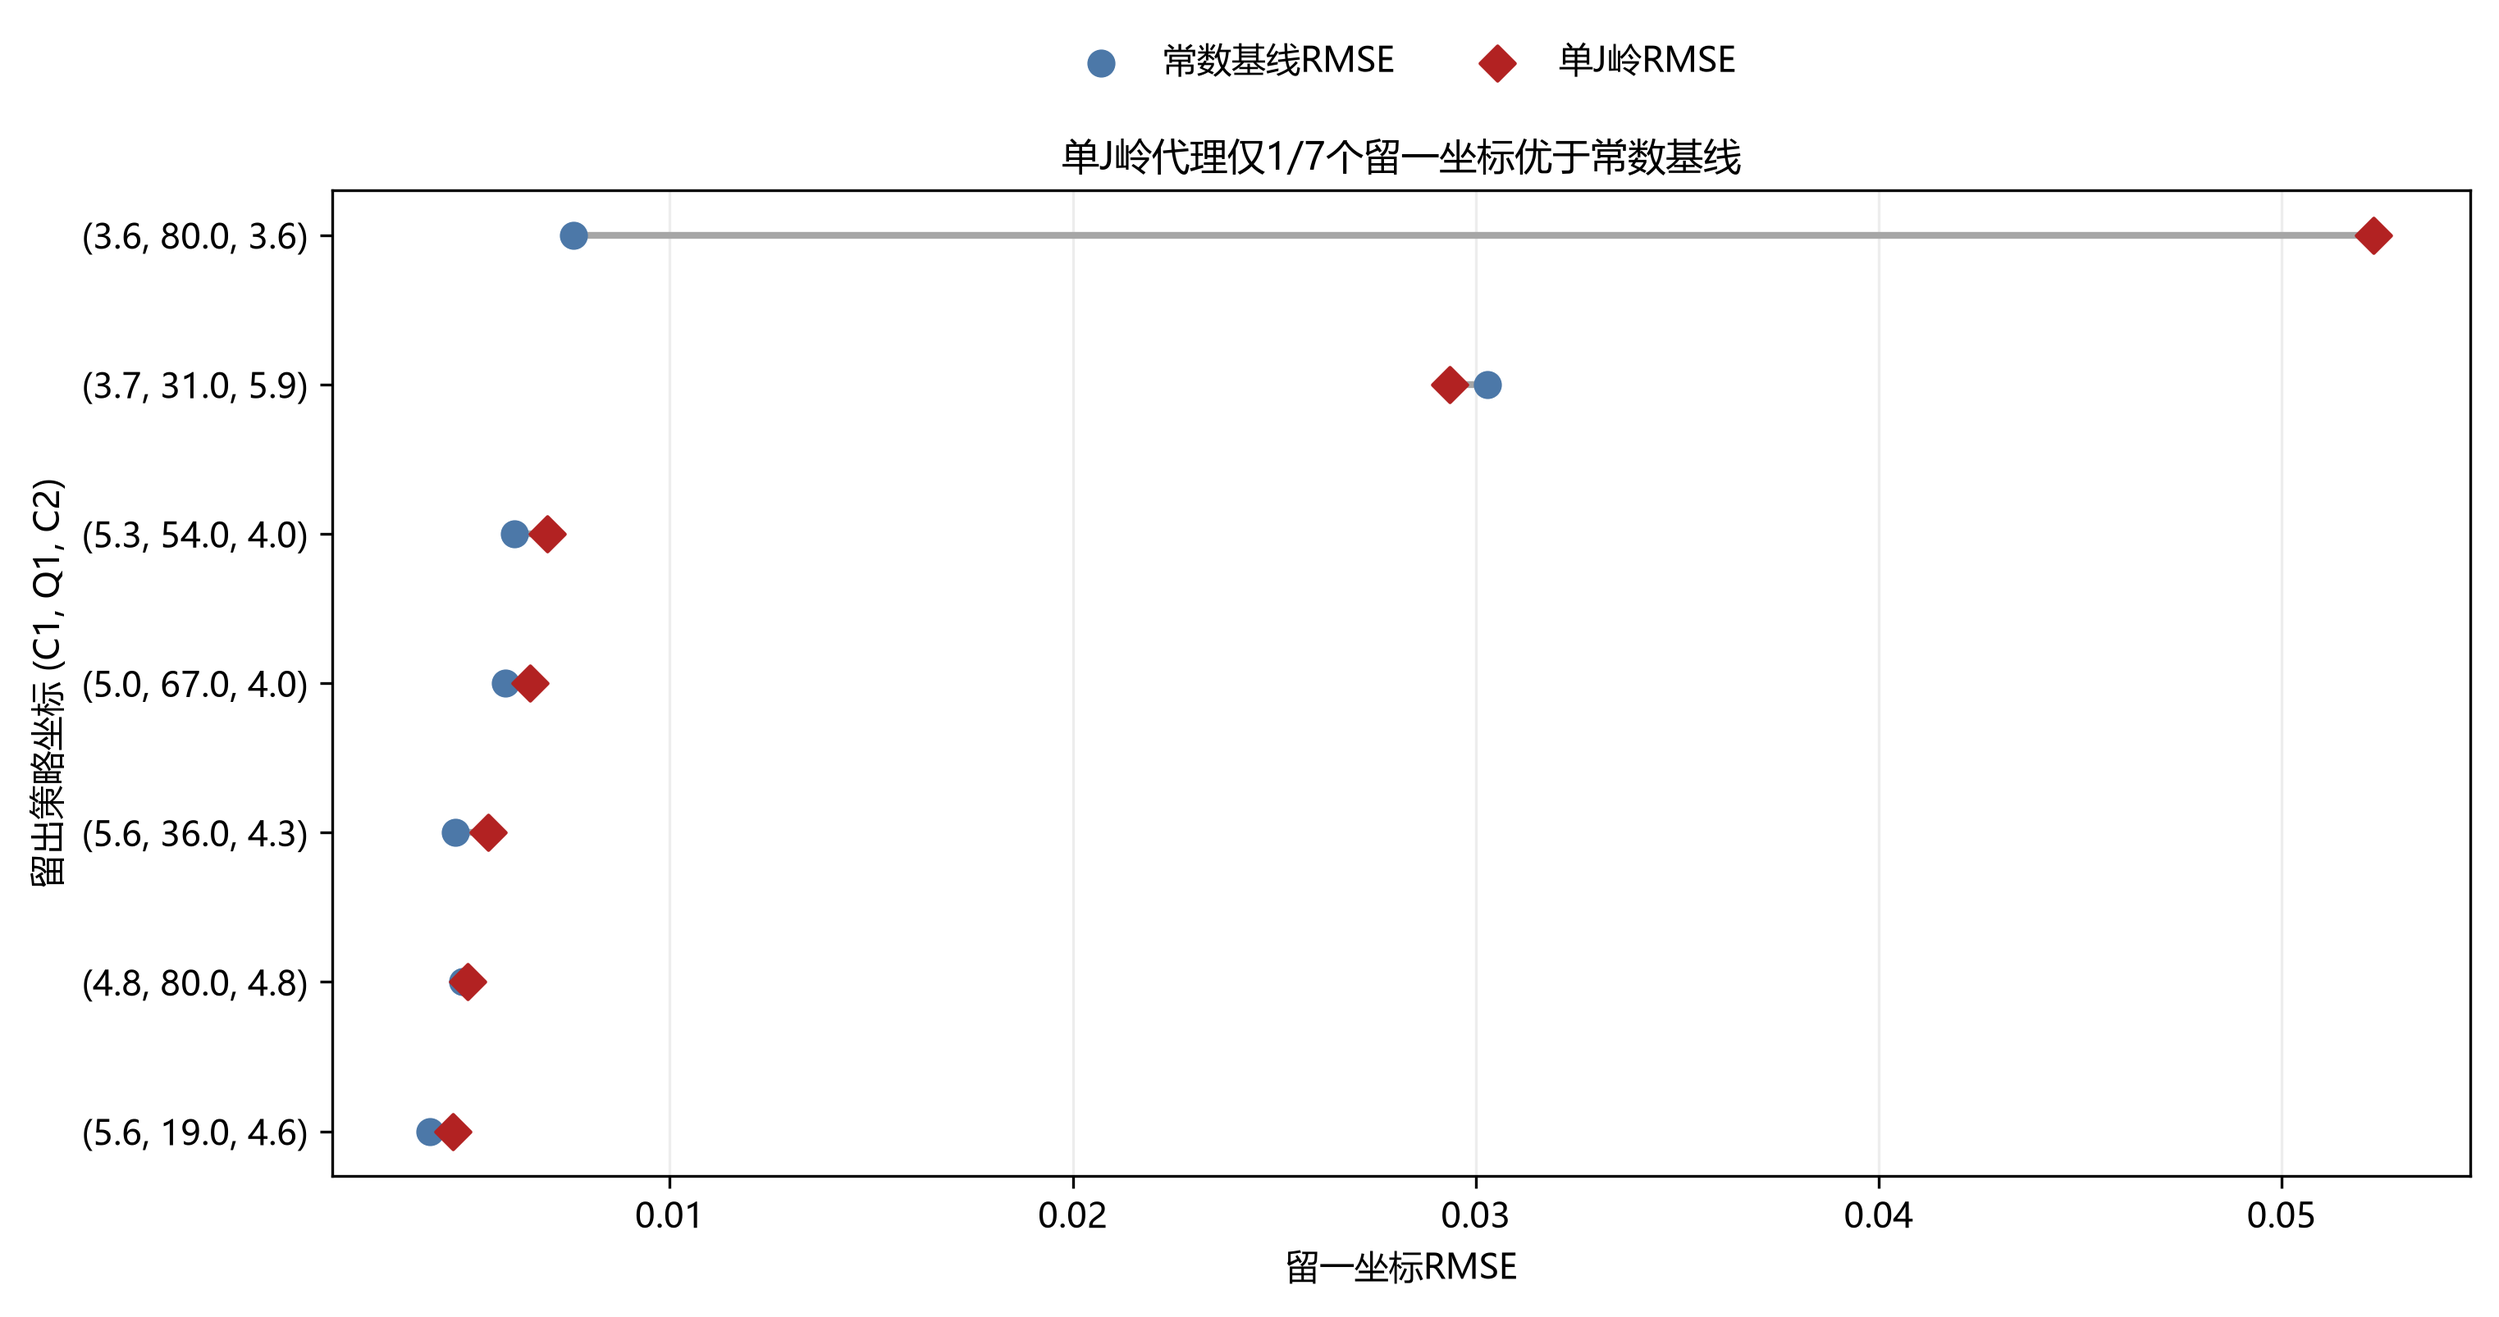
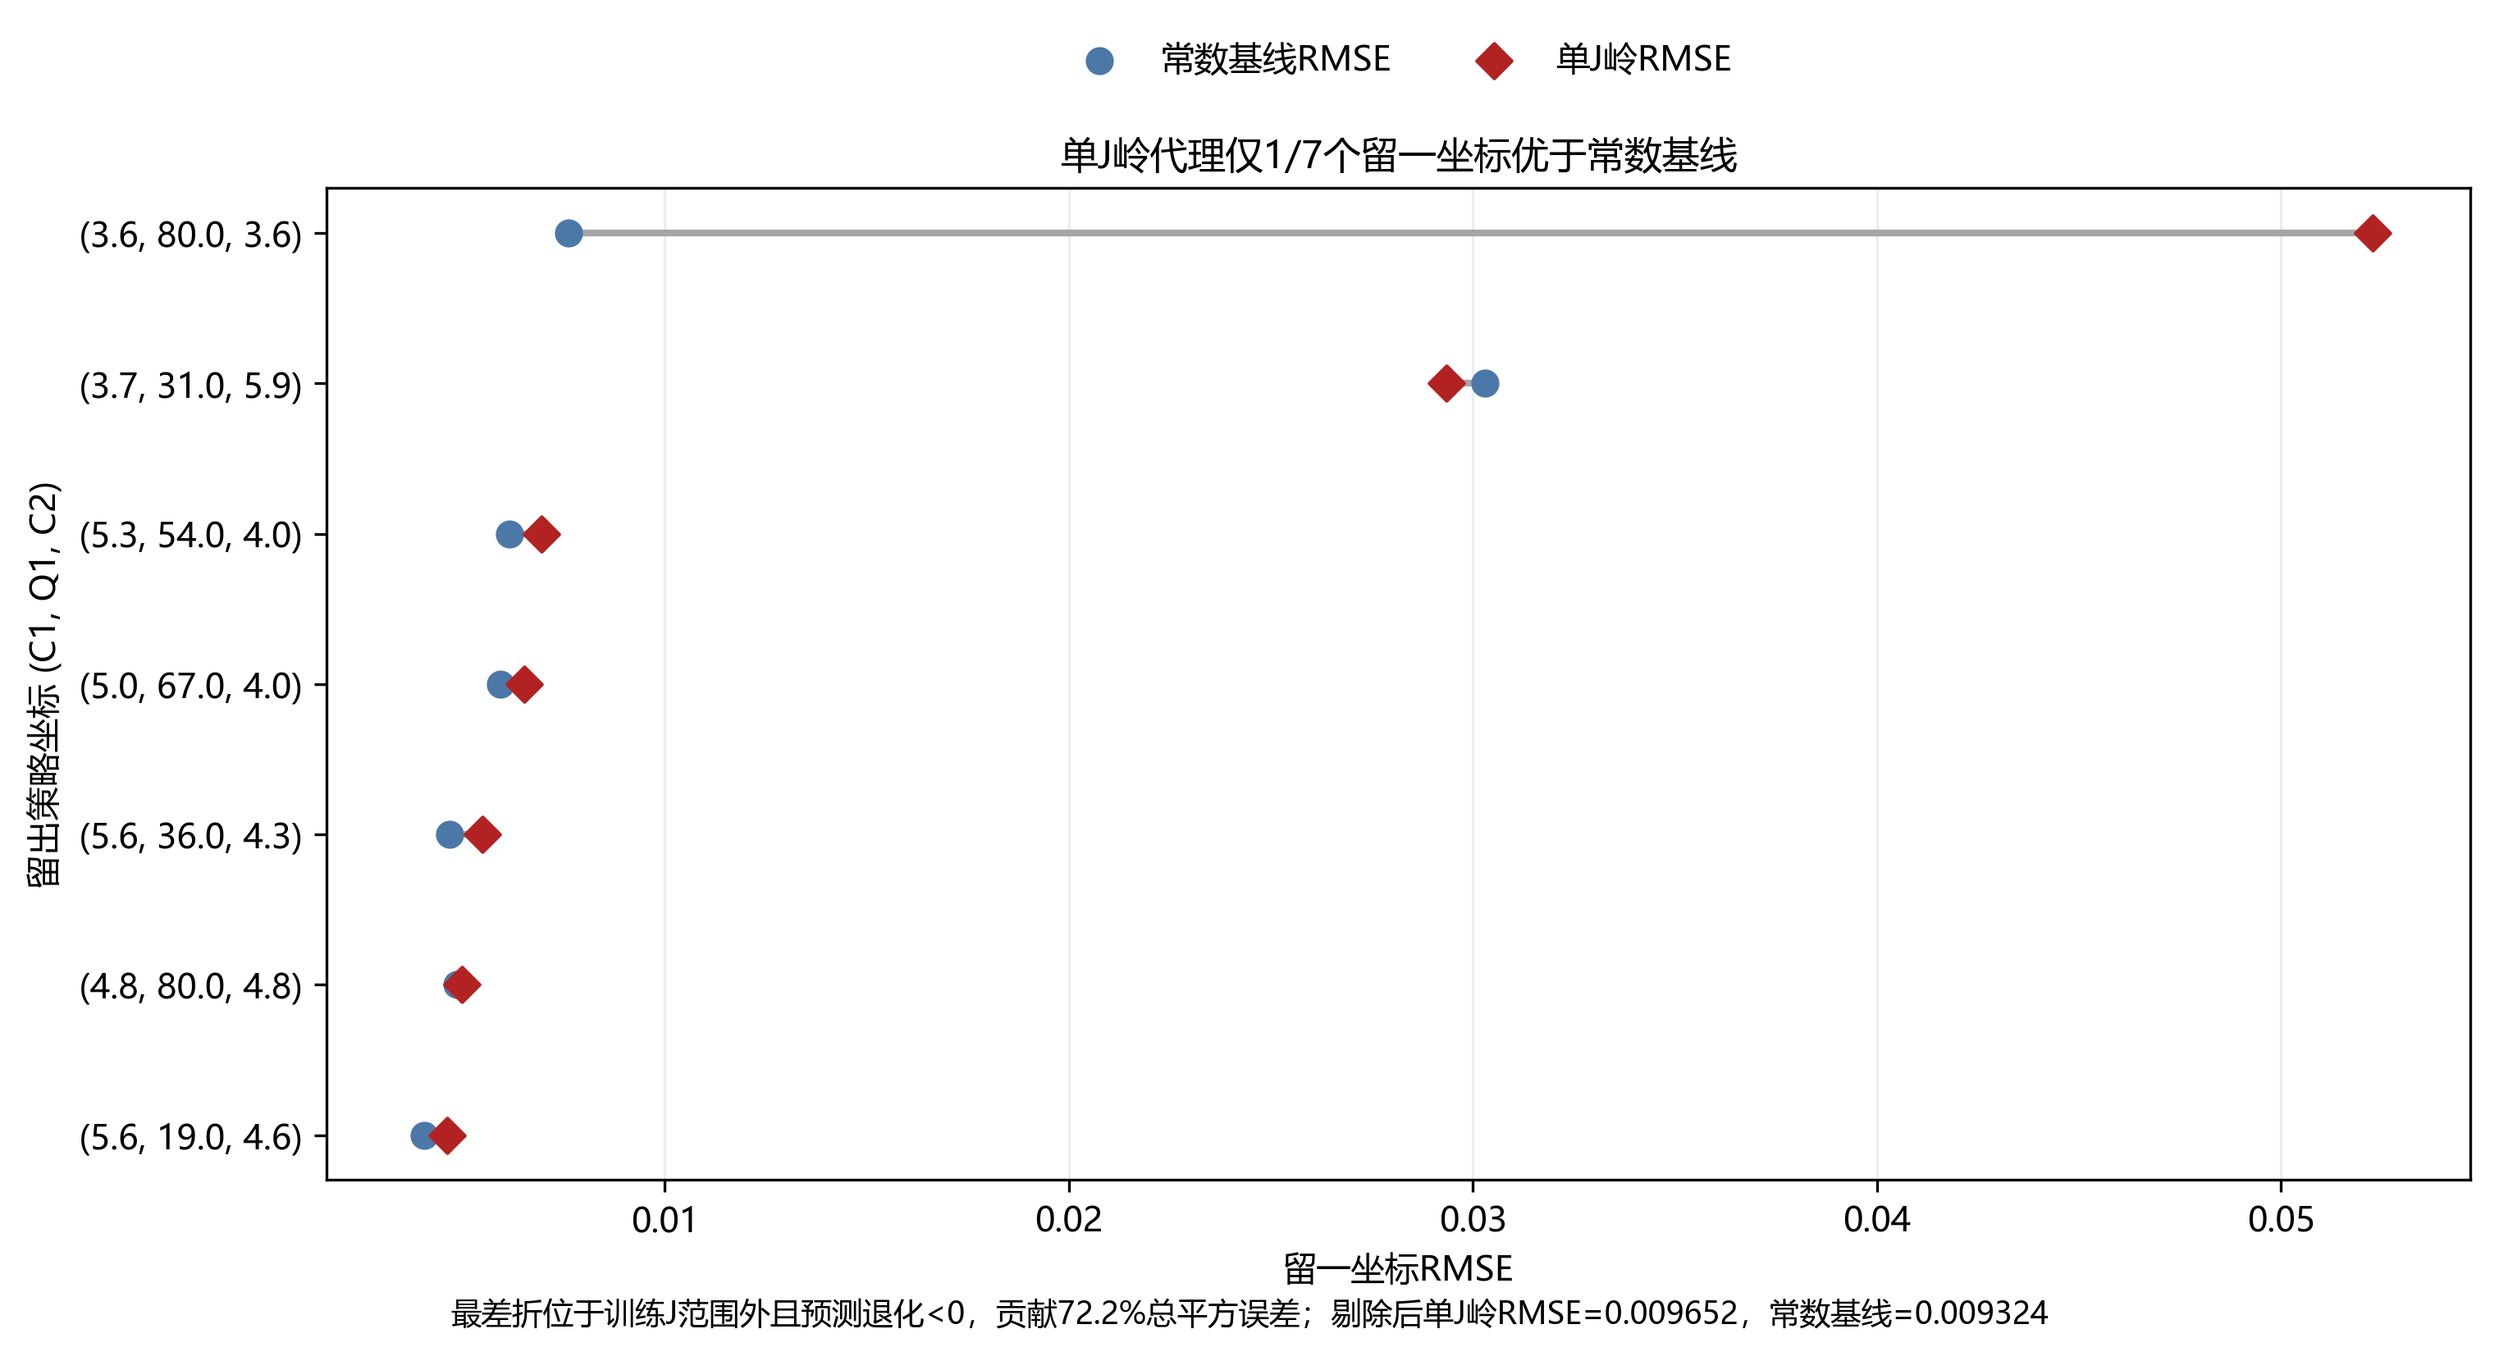
fix: expose Q4 M1 fold concentration

diff --git a/scripts/q4/run_q4_full_validation.py b/scripts/q4/run_q4_full_validation.py
@@ -314,6 +314,7 @@ def integrity_checks(summary: pd.DataFrame, battery: pd.DataFrame, boot: pd.Data
         {"check": "late_slope_bootstrapped", "passed": bool(boot["late_slope_loss"].notna().all()), "detail": "strategy mean per replicate"},
         {"check": "point_recommendations_pareto", "passed": recommendation_policies.issubset(pareto_policies), "detail": len(recommendation_policies)},
         {"check": "m1_coordinate_folds", "passed": len(loso) == 7 and len(repeated_coordinate) == 1, "detail": "7 unique coordinates; duplicate coordinate jointly held out"},
+        {"check": "m1_failure_concentration_exposed", "passed": loso["worst_fold"].sum() == 1 and loso["squared_error_share"].sum() > 0.999999, "detail": "fold-level prediction, extrapolation and squared-error share recorded"},
         {"check": "fast_pair_point_pareto_roles", "passed": len(fast_pair) == 2 and fast_pair["point_pareto"].sum() == 1 and fast_pair.loc[fast_pair["point_pareto"], "decision_status"].eq("point_pareto_fast_tradeoff_recommendation").all() and fast_pair.loc[~fast_pair["point_pareto"], "decision_status"].eq("uncertainty_near_tie_nonpareto_sensitivity").all(), "detail": "point Pareto recommendation separated from non-Pareto uncertainty sensitivity"},
         {"check": "fast_pair_difference_intervals_cross_zero", "passed": bool((fast_pair["pair_time_difference_first_minus_second_p025"] < 0).all() and (fast_pair["pair_time_difference_first_minus_second_p975"] > 0).all() and (fast_pair["pair_loss_difference_first_minus_second_p025"] < 0).all() and (fast_pair["pair_loss_difference_first_minus_second_p975"] > 0).all()), "detail": "time and loss pairwise bootstrap intervals overlap zero"},
         {"check": "q3_not_used_as_counterfactual", "passed": fast_pair["q3_role"].eq("not_used_no_early_trajectory_for_new_policy").all(), "detail": "Q3 is conditional prediction, not a policy response surface"},
@@ -360,7 +361,7 @@ def main() -> None:
     elapsed = time.perf_counter() - started
     metrics = pd.DataFrame([
         {"model": "M0_discrete_pareto", "status": "pass_primary", "metric": "pareto_count", "value": float(summary["pareto"].sum()), "detail": "9 observed policies; no continuous causal extrapolation"},
-        {"model": "M1_single_J_ridge", "status": "failed_validation_continuous_search_not_activated", "metric": "oracle_coordinate_pressure_rmse", "value": float(loso["rmse"].mean()), "detail": f"rejects this single-J ridge only; mean improvement={loso['improvement'].mean():.9g}"},
+        {"model": "M1_single_J_ridge", "status": "failed_validation_continuous_search_not_activated", "metric": "oracle_coordinate_pressure_rmse", "value": float(loso["rmse"].mean()), "detail": f"rejects this single-J ridge only; mean improvement={loso['improvement'].mean():.9g}; worst-fold SSE share={loso['squared_error_share'].max():.6f}"},
         {"model": "B_shortest_time", "status": "near_tie_baseline", "metric": "minimum_observed_time", "value": float(summary["time_mean"].min()), "detail": f"policies within {TIME_EQUIVALENCE_MINUTES} min treated as practical near-tie set"},
         {"model": "C_lowest_loss", "status": "baseline", "metric": "minimum_observed_loss", "value": float(summary["loss_mean"].min()), "detail": "single-objective boundary"},
     ])
@@ -402,7 +403,7 @@ def main() -> None:
 
 版本`{FORMAL_VERSION}`，整块电池bootstrap {args.bootstrap}次，随机种子{SEED}，运行{elapsed:.3f}秒。
 
-M0离散观测策略Pareto为主模型；M1单J岭模型的oracle坐标压力测试失败，所以本数据下不启动连续搜索。该结果只否定当前单J岭代理，不证明所有连续代理或后续新增实验均无效。点估计Pareto策略为：{', '.join(summary.loc[summary['pareto'], 'policy'].astype(str))}。
+M0离散观测策略Pareto为主模型；M1单J岭模型的oracle坐标压力测试失败，所以本数据下不启动连续搜索。最差的3.6C留一折位于训练J范围外，产生负退化预测并贡献{loso['squared_error_share'].max():.1%}总平方误差；剔除该折后，M1平均RMSE仍为{loso.loc[~loso['worst_fold'], 'rmse'].mean():.6f}，略差于常数基线{loso.loc[~loso['worst_fold'], 'constant_rmse'].mean():.6f}。因此失败方向不依赖该折，但总体RMSE幅度明显受它驱动。该结果只否定当前单J岭代理，不证明所有连续代理或后续新增实验均无效。点估计Pareto策略为：{', '.join(summary.loc[summary['pareto'], 'policy'].astype(str))}。
 
 充电时间主指标统一采用`battery_summary_clean.csv`中的逐电池`mean_chargetime`，与问题1、2一致。前200循环的逐循环均值仅作覆盖窗口敏感性，不能替代主指标。点估计上5.3C的时间和退化都低于5.0C，因此前者是快速区域的Pareto推荐，后者是非前沿的不确定性近似并列敏感性项。二者时间差和退化差的整块电池bootstrap区间均跨0，5.3C退化更低的概率不足0.95，因此不把5.0C排除为近似并列方案，但也不将严格被支配点标成共同主推荐。
 

diff --git a/src/q4_models/core.py b/src/q4_models/core.py
@@ -180,13 +180,32 @@ def loso_single_exposure(
             else:
                 pred = intercept + slope * (test[exposure].to_numpy(float) - mean) / scale
             rmse = float(np.sqrt(np.mean((pred - test["loss_mean"].to_numpy(float)) ** 2))) if len(test) else np.nan
-            candidate = (rmse, -lam, intercept, slope, mean, scale)
+            candidate = (rmse, -lam, intercept, slope, mean, scale, pred)
             if best is None or candidate[:2] < best[:2]: best = candidate
         assert best is not None
         baseline_rmse = float(np.sqrt(np.mean((test["loss_mean"].to_numpy(float) - train["loss_mean"].mean()) ** 2))) if len(test) else np.nan
+        test_exposure = test[exposure].to_numpy(float)
+        train_exposure = train[exposure].to_numpy(float)
+        prediction = np.asarray(best[6], dtype=float)
         rows.append({"version": Q4_VERSION, "exposure": exposure, "held_out_coordinate": held_out,
                      "n_test_policy": len(test), "rmse": best[0], "lambda": -best[1],
                      "constant_rmse": baseline_rmse, "improvement": baseline_rmse - best[0],
                      "intercept": best[2], "slope": best[3], "train_mean": best[4],
-                     "train_scale": best[5], "validation_type": "coordinate_LOSO_extrapolation_pressure"})
-    return pd.DataFrame(rows)
+                     "train_scale": best[5],
+                     "train_exposure_min": float(train_exposure.min()),
+                     "train_exposure_max": float(train_exposure.max()),
+                     "test_exposure_min": float(test_exposure.min()),
+                     "test_exposure_max": float(test_exposure.max()),
+                     "outside_train_exposure_range": bool(
+                         test_exposure.min() < train_exposure.min()
+                         or test_exposure.max() > train_exposure.max()
+                     ),
+                     "prediction_mean": float(prediction.mean()),
+                     "prediction_below_zero": bool((prediction < 0).any()),
+                     "observed_loss_mean": float(test["loss_mean"].mean()),
+                     "sum_squared_error": float(np.sum((prediction - test["loss_mean"].to_numpy(float)) ** 2)),
+                     "validation_type": "coordinate_LOSO_extrapolation_pressure"})
+    result = pd.DataFrame(rows)
+    result["squared_error_share"] = result["sum_squared_error"] / result["sum_squared_error"].sum()
+    result["worst_fold"] = result["sum_squared_error"].eq(result["sum_squared_error"].max())
+    return result

diff --git a/tests/test_q4_full_validation.py b/tests/test_q4_full_validation.py
@@ -1,5 +1,6 @@
 from pathlib import Path
 
+import numpy as np
 import pandas as pd
 
 
@@ -56,6 +57,14 @@ def test_q4_full_validation_protocol() -> None:
     assert fast_pair["probability_not_slower_by_more_than_0_01_min"].max() < 0.95
     assert (fast_pair["pair_loss_difference_first_minus_second_p025"] < 0).all()
     assert (fast_pair["pair_loss_difference_first_minus_second_p975"] > 0).all()
+    m1 = pd.read_csv(target / "m1_coordinate_loso.csv")
+    assert m1["worst_fold"].astype(bool).sum() == 1
+    assert np.isclose(m1["squared_error_share"].sum(), 1.0)
+    worst = m1.loc[m1["worst_fold"].astype(bool)].iloc[0]
+    assert bool(worst["outside_train_exposure_range"])
+    assert bool(worst["prediction_below_zero"])
+    remaining = m1.loc[~m1["worst_fold"].astype(bool)]
+    assert remaining["rmse"].mean() > remaining["constant_rmse"].mean()
     assert fast_pair["q3_role"].eq("not_used_no_early_trajectory_for_new_policy").all()
     manifest = pd.read_csv(target / "manifest.csv")
     assert "run_config.json" in set(manifest["path"])

diff --git a/scripts/visualization/generate_q4_paper_figures.py b/scripts/visualization/generate_q4_paper_figures.py
@@ -153,6 +153,14 @@ def draw_m1_validation() -> Path:
     ax.set_title("单J岭代理仅1/7个留一坐标优于常数基线")
     ax.grid(axis="x", alpha=0.22)
     ax.legend(loc="lower center", bbox_to_anchor=(0.5, 1.08), ncol=2, frameon=False)
+    worst = frame.loc[frame["worst_fold"].astype(bool)].iloc[0]
+    remaining = frame.loc[~frame["worst_fold"].astype(bool)]
+    fig.text(
+        0.5, -0.02,
+        f"最差折位于训练J范围外且预测退化<0，贡献{float(worst['squared_error_share']):.1%}总平方误差；"
+        f"剔除后单J岭RMSE={remaining['rmse'].mean():.6f}，常数基线={remaining['constant_rmse'].mean():.6f}",
+        ha="center", fontsize=9,
+    )
     return _save(fig, "fig_q4_m1_validation.png")
 
 

diff --git a/reports/q4_full_validation_report.md b/reports/q4_full_validation_report.md
@@ -46,7 +46,7 @@ M0在9个观测点`(T_p,D_p)`上定义Pareto支配，并报告三种决策信息
 
 权重结果不作为唯一选模依据。使用全部9策略min-max或10%—90%稳健分位缩放时，`lambda=0.1—1.0`选择5.3C；只在3个Pareto点上min-max时，`lambda=0—0.5`选择3.6C，`lambda=0.6—1.0`选择5.3C。该差异说明膝点依赖标准化集合，因此正式结论以Pareto与条件约束为主，权重只描述偏好敏感性。
 
-M1的7折坐标压力测试平均RMSE为0.015740，平均相对常数基线改善为-0.006661。该指标还使用留出真值选择最优岭参数，属于偏乐观oracle上界；即便如此仍失败，因此当前`单J＋岭回归`代理不能用于优化，本数据下不启动连续搜索。这只否定了已测试的低维代理，不能证明所有连续模型都失败；更丰富的连续代理仍属未测试，而且在新增独立策略坐标和外部验证前不得进入正式推荐。
+M1的7折坐标压力测试平均RMSE为0.015740，平均相对常数基线改善为-0.006661。该均值的幅度高度集中：留出`(3.6,80,3.6)`时J落在训练范围外，模型外推得到负退化预测，该折贡献72.18%的总平方误差。剔除它后，单J岭平均RMSE仍为0.009652，略差于常数基线0.009324，且7折仅1折改善，因此“不能启用该代理”的方向不依赖这一极端折，但不能把0.015740解释为均匀稳定的典型误差。该指标还使用留出真值选择最优岭参数，属于偏乐观oracle上界；即便如此仍失败，因此当前`单J＋岭回归`代理不能用于优化，本数据下不启动连续搜索。这只否定了已测试的低维代理，不能证明所有连续模型都失败；更丰富的连续代理仍属未测试，而且在新增独立策略坐标和外部验证前不得进入正式推荐。
 
 ## 5. 小问四：推荐与典型策略对比
 

diff --git a/result/q4/02_full_validation/full_report.md b/result/q4/02_full_validation/full_report.md
@@ -2,7 +2,7 @@
 
 版本`q4_full_v4`，整块电池bootstrap 5000次，随机种子20260815，运行11.193秒。
 
-M0离散观测策略Pareto为主模型；M1单J岭模型的oracle坐标压力测试失败，所以本数据下不启动连续搜索。该结果只否定当前单J岭代理，不证明所有连续代理或后续新增实验均无效。点估计Pareto策略为：3_6C-80PER_3_6C, 4_8C_80PER_4_8C_NEWSTRUCTURE, 5_3C_54PER_4C_NEWSTRUCTURE。
+M0离散观测策略Pareto为主模型；M1单J岭模型的oracle坐标压力测试失败，所以本数据下不启动连续搜索。最差的3.6C留一折位于训练J范围外，产生负退化预测并贡献72.2%总平方误差；剔除该折后，M1平均RMSE仍为0.009652，略差于常数基线0.009324。因此失败方向不依赖该折，但总体RMSE幅度明显受它驱动。该结果只否定当前单J岭代理，不证明所有连续代理或后续新增实验均无效。点估计Pareto策略为：3_6C-80PER_3_6C, 4_8C_80PER_4_8C_NEWSTRUCTURE, 5_3C_54PER_4C_NEWSTRUCTURE。
 
 充电时间主指标统一采用`battery_summary_clean.csv`中的逐电池`mean_chargetime`，与问题1、2一致。前200循环的逐循环均值仅作覆盖窗口敏感性，不能替代主指标。点估计上5.3C的时间和退化都低于5.0C，因此前者是快速区域的Pareto推荐，后者是非前沿的不确定性近似并列敏感性项。二者时间差和退化差的整块电池bootstrap区间均跨0，5.3C退化更低的概率不足0.95，因此不把5.0C排除为近似并列方案，但也不将严格被支配点标成共同主推荐。
 

diff --git a/.log/change/2026-08-15_q4-m1-fold-concentration.md b/.log/change/2026-08-15_q4-m1-fold-concentration.md
@@ -1,0 +1,5 @@
+# Q4 M1 fold concentration
+
+- Added fold predictions, train/test exposure ranges, extrapolation flags, and squared-error shares.
+- Disclosed that the 3.6C extrapolation fold drives 72.18% of total squared error.
+- Verified that excluding the worst fold still leaves single-J ridge slightly worse than the constant baseline.
